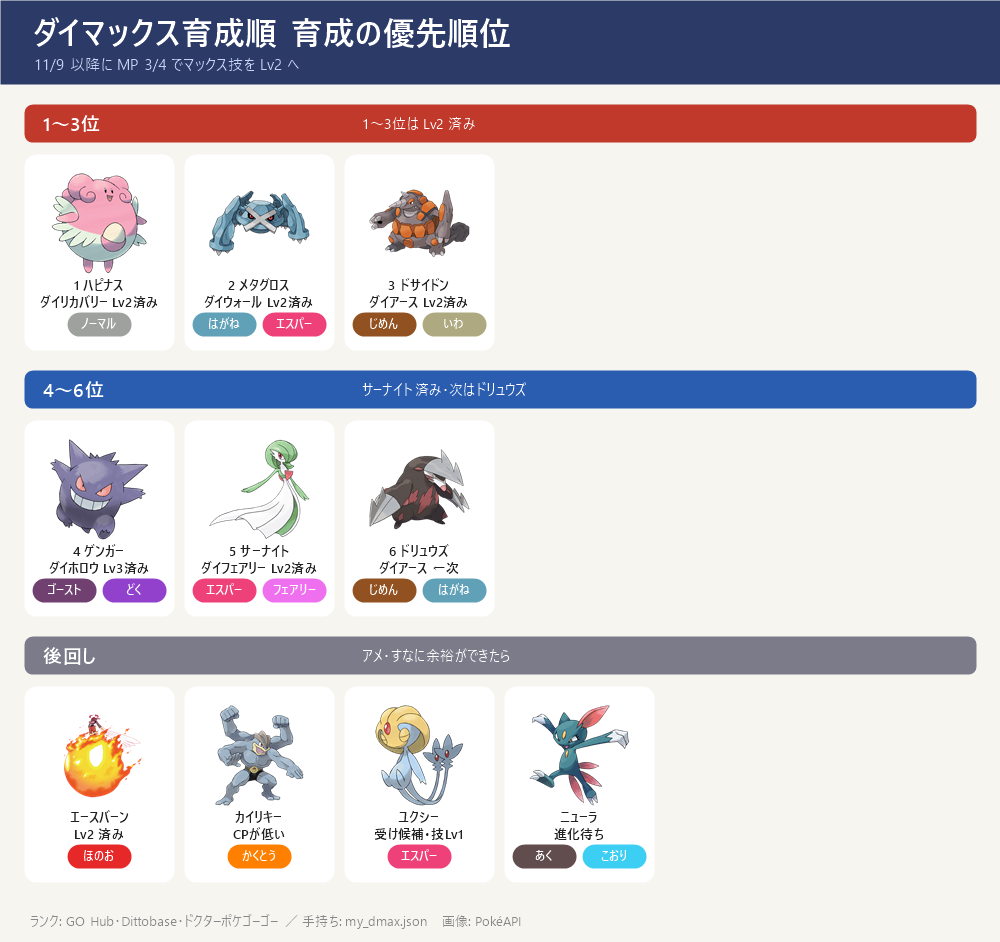
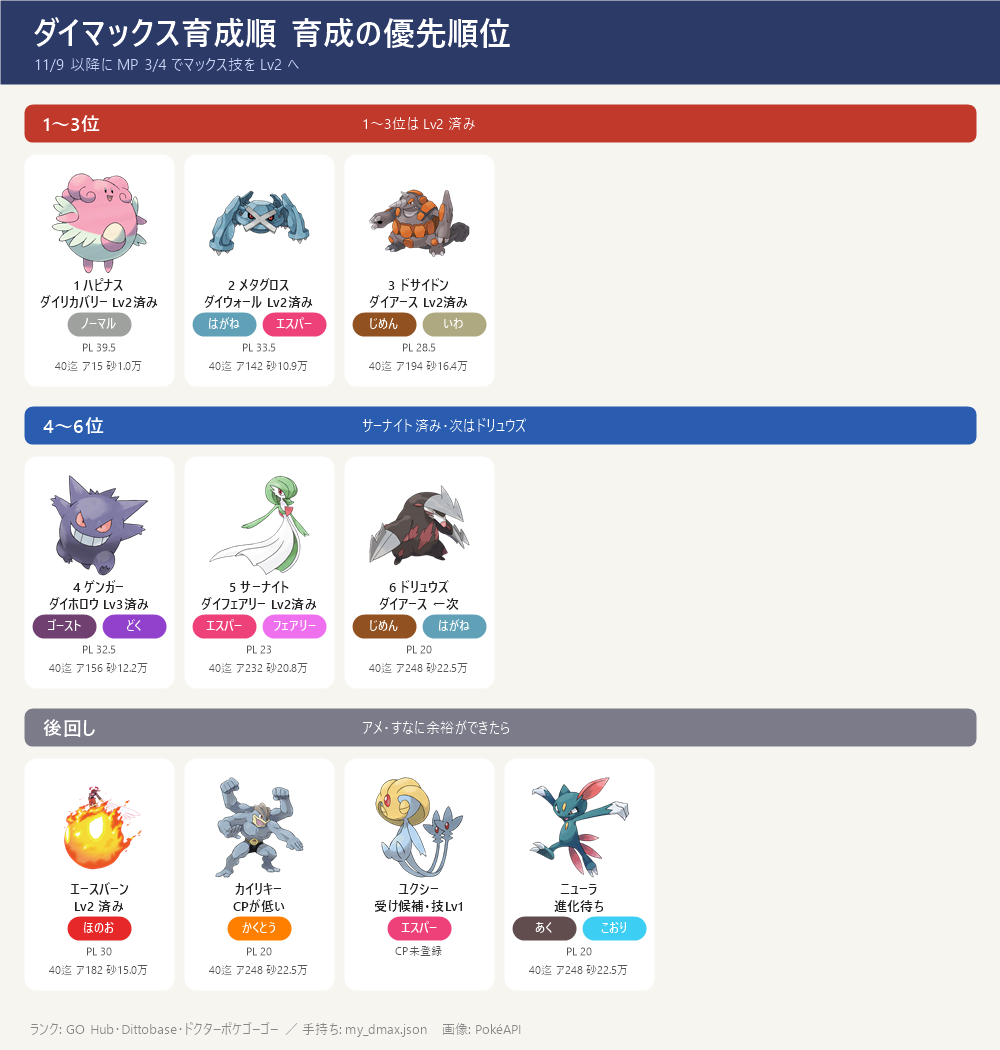
育成順ページ: 各ダイマックスに今のPLとPL40までの必要アメ・ほしのすな（概算）を追加

diff --git a/topics/dmax-training/index.html b/topics/dmax-training/index.html
@@ -12,4 +12,4 @@ details{margin:10px 0}summary{cursor:pointer;color:var(--muted)}
 .ti{width:26px;height:26px;margin:0 7px 0 0;font-size:20px;line-height:26px}
 .hi{width:30px;height:30px;margin:0 9px 0 0;font-size:24px;line-height:30px}
 ul.tl{padding-left:0}ul.tl li{list-style:none;margin:7px 0}ul.tl a{display:flex;align-items:center}
-</style></head><body><header><h1><span class='hi'>📋</span>ダイマックス 育成の優先順位（10/17〜）</h1><nav><a href='../../'>← 一覧</a></nav></header><main><ul><li><span style='font-weight:bold;color:#C0392B'>結論：すなより「マックス技のレベル」</span>。マックス技 Lv1→Lv3 で威力 <b>+40%</b>（250→350）、PL30→40 は攻撃 <b>+8%</b> だけ → すな（50万未満）はほぼ使わず、<b>MP とアメ</b>で育てる</li><li><span style='font-weight:bold;color:#C0392B'>残る強化は 11/9(日) 以降にまとめる</span>（10/20 決定）：GOパス デラックス「ワイルドウィーク」のランク2で、マックス技の MP が <b>3/4</b>（Lv2 は 600 → 450）。残るは <b>⑥ドリュウズ だけ</b>（約600 → 450）。<b>ゲンガーは 10/24 用に Lv3 済み（10/23）、ハピナスは回復役として Lv2 済み（10/21）、メタグロスはダイウォール Lv2 済み（10/24）、ドサイドンはダイアース Lv2 済み（10/24）、サーナイトはダイフェアリー Lv2 済み（10/24）</b></li><li><b>11/9 にいちばん先</b>：⑥ドリュウズ ダイアース Lv2（②メタグロス・③ドサイドン・⑤サーナイトは 10/24 までに済み）。11/9〜13 の ★5 の前に</li><li><b>止まりやすいのは MP ではなくアメ</b>：1〜6位を全部 Lv2 にしても MP は約4,000（ふつうの日5日分）。アメが足りない技は飛ばして次へ。Lv3 はアメXL 40〜55個 → <b>当面は全部 Lv2 まで</b></li><li><span style='color:#888888'>11/16 以降のマックスバトルは未発表（10/17 時点）。発表されたらこのページを直す</span></li><li><span style='font-weight:bold;color:#C0392B'>【新規】下に「ザシアン・ザマゼンタの育成計画」を追加</span>：11/9〜のワイルドエリア（Into the Wild）で、ザマゼンタを<b>王の姿</b>に・ザシアンの攻撃を<b>ぎんのおうかん</b>で特訓。<b>締切 11/17・11/22</b>（くわしくは下の節）</li></ul><h2 style='border-color:#C0392B'>育成の優先順位</h2><a href='pokego_extra0.png'><img src='pokego_extra0.png' alt='育成の優先順位' loading=lazy></a><ul><li><b>1位 ハピナス（CP2677）</b>：<span style='font-weight:bold;color:#C0392B'>ダイリカバリー Lv2 済み（10/21）</span>。<b>6ボスすべて</b>で回復役。回復量 31 → <b>47</b>（4体全員に）。次はダイウォール Lv2</li><li><b>2位 メタグロス（CP3369）</b>：<span style='font-weight:bold;color:#C0392B'>ダイウォール Lv2 済み（10/24）</span>。<b>6ボスすべて</b>で受け役（盾 <b>40</b>）。どの攻略サイトでも受け役の上位。Lv3（盾 60）はアメXL が要るので当面このまま</li><li><b>3位 ドサイドン（CP3005）</b>：<span style='font-weight:bold;color:#C0392B'>ダイアース Lv2 済み（10/24）</span>（<b>どろかけ</b> 替え済み 10/18）。ディアルガ・レジスチル・★6 キョダイジュラルドンで<b>弱点</b>を突く攻撃役。ディアルガへの1発 227→約272（Lv3 は 318・アメXL が要るので当面このまま）</li><li><b>4位 ゲンガー（CP2500）</b>：<span style='font-weight:bold;color:#C0392B'>ダイホロウ（ダイアタック）Lv3 済み（10/23）</span>。10/24 ユクシー・エムリット・アグノム、11/13 ラティアス・ラティオスで弱点</li><li><b>5位 サーナイト（CP2023・15-13-15）</b>：<span style='font-weight:bold;color:#C0392B'>ダイフェアリー Lv2 済み（10/24）</span>。<b>あまえる</b> 替え済み（10/18）。パルキア・レジドラゴ・ラティアス／ラティオス・10/26 ヤミラミ（弱点はフェアリーだけ）の攻撃役</li><li><b>6位 ドリュウズ（CP1835・15-15-10・PL20）</b>：<span style='font-weight:bold;color:#C0392B'>次の強化はここから</span>。どろかけ／ドリルライナー、ダイアース Lv1 済み → <b>Lv2（600MP）</b>。アメ 187 → Lv2（約110）と PL30（約40）で約150、ぎりぎり足りる。<b>順番：Lv2 → PL30 → 和田堀の巣でアメXLを集めて Lv3</b>（Lv3 はアメXL 約45、今20）。集まらなければ最後に ふしぎなアメXL。ディアルガの技（ドラゴン・はがね・でんき）を<b>全部半減以下</b>で受けられる2体目のじめん役 → <span style='font-weight:bold;color:#C0392B'>11/9〜13 に</span></li><li><span style='color:#888888'><b>後回し</b>：エースバーン（キョダイ Lv2 済み。Lv3 はアメXL 45個）／カイリキー（CP1698 で弱い。じめん・かくとう役はドサイドンが先）／インテレオン・フシギバナ（ダイマックス版はどのサイトでも下位）／シャワーズ（パルキアの受けの控え）／ハピナス2体目（余裕ができたら2体目の回復役に）／<b>ユクシー（10/24 捕獲・15-12-13）＝受け（タンク）向き</b>（防御がとても高い(270)エスパー単。ただし今はダイアタック Lv1 のみで<b>ダイウォール未習得</b> → 覚えれば受けの2体目候補。今のドラゴン・はがね系ボスには等倍なので受け役の比較にはまだ入れていない。攻撃は火力不足・回復はHPが少なく不向き）／ニューラ（CP1139・こおりのつぶて。10/19 捕獲。マニューラへの進化はアメ100 → 今76、あと24。いしはある。進化すると CP約1,680、ダイアイスがレジドラゴ・ラティアス・ラティオスに2倍。アメは技より<b>進化を先</b>に）</span></li></ul><h2 style='border-color:#5B4B8A'>これからのマックスバトルと使うポケモン</h2><a href='pokego_extra1.png'><img src='pokego_extra1.png' alt='これからのマックスバトルと使うポケモン' loading=lazy></a><ul><li><b>10/19(月) マックスマンデー：ダイマックス ニューラ</b>（あく・こおり）→ かくとうが<b>4倍</b>：カイリキー。ほのお（エースバーン）・むし（メタグロスのれんぞくぎり）も弱点</li><li><b>10/24(土) 14:00〜17:00 マックスバトルデイ：ユクシー・エムリット・アグノム</b>（エスパー・★5）→ ゴースト（<b>ゲンガー</b>）・むし（<b>メタグロス</b>）。★5 なので4人で</li><li><b>10/26(月) マックスマンデー：ヤミラミ</b>（あく・ゴースト）→ 弱点は<b>フェアリーだけ</b>：サーナイト（あまえる）</li><li><b>11/9〜13 ワイルドウィーク</b>（★5 レジスチル・レジドラゴ・ラティアス・ラティオス）→ <b>11/14 ディアルガ・11/15 パルキア</b>。くわしくはボス別のページ</li><li><b>11/14・15 ★6 キョダイジュラルドン</b>（はがね・ドラゴン）→ じめん・かくとうが弱点：<b>ドサイドン（どろかけ）</b></li><li><span style='color:#888888'>11/16 以降は未発表。去年の年末は 12/14 にキョダイカビゴンのマックスバトルデイ</span></li></ul><h2 style='border-color:#B8860B'>ザシアン・ザマゼンタの育成計画</h2><ul><li><span style='font-weight:bold;color:#C0392B'>手持ち</span>：<b>ザシアン</b>（攻撃10／防御15／HP14）・<b>ザマゼンタ</b>（攻撃15／防御14／HP14）。<span style='color:#888888'>※ダイマックスではなく、11/9〜のワイルドエリア（Into the Wild）での通常レイド・特訓の計画</span></li><li><b>① ザマゼンタ → 王の姿（たてのおう）に</b>：<b>11/9 から</b>の ★5 レイド（王の姿）をこなして たてのおう にする予定。<span style='font-weight:bold;color:#C0392B'>王の姿にする条件は未確認 → イベント前に確認する</span></li><li><b>② ザシアン → 攻撃を特訓（10→15）</b>：<b>ぎんのおうかん</b>を使って攻撃を 15 にする（個体値が <b>15／15／14</b> になる）。<span style='color:#888888'>ぎんのおうかんで上げられるのは1つの数値だけ</span></li><li><b>③ ぎんのおうかんの入手</b>：「<b>GOパス デラックス：Into the Wild</b>」（14.99ドル相当）を<b>最後までクリア</b>するともらえる</li><li><span style='font-weight:bold;color:#C0392B'>④ いま準備すること</span>：<b>ザシアンを今から相棒にして「仲良し」以上にしておく</b>（特訓に使える相棒は仲良し以上だけ）。攻撃の特訓は<b>一緒にバトルすると進む</b>。<span style='font-weight:bold;color:#C0392B'>特訓したポケモンはポケモンHOMEに送れなくなる</span>ので注意</li><li><b>日程</b>（公式と Leek Duck の2か所で一致）：Into the Wild <b>11/9(月)10:00〜11/13(金)20:00</b>／レイドアワー <b>11/9(月)18:00〜19:00 ザシアン</b>・<b>11/10(火)18:00〜19:00 ザマゼンタ</b>／GOパスのポイント獲得は <b>11/15(日)18:00</b> まで</li><li><span style='font-weight:bold;color:#C0392B'>■ 締切①：11/17(火)23:59 まで</span> — GOパス デラックスの<b>報酬（ぎんのおうかん）の受け取り</b>期限</li><li><span style='font-weight:bold;color:#C0392B'>■ 締切②：11/22(日)23:59 まで</span> — <b>ぎんのおうかんの使用</b>期限（この日までにザシアンの攻撃特訓を済ませる）</li></ul><h2 style='border-color:#2A5DB0'>MP の計画</h2><ul><li>1日に集められるのは <b>800</b>（5:00 に戻る）、持てる上限は <b>1,500</b>。パック・リサーチ・コードの MP は1日の上限に数えない</li><li><b>育成に要る MP</b>：ゲンガー（ダイホロウ Lv3・10/23）・ハピナス（ダイリカバリー Lv2・10/21）・メタグロス（ダイウォール Lv2・10/24）・ドサイドン（ダイアース Lv2・10/24）・サーナイト（ダイフェアリー Lv2・10/24）は済み。残るは ⑥ドリュウズ 約600 → 11/9 以降の 3/4 なら <b>約450</b></li><li><b>11/8 までは MP をためる</b>：持てるのは 1,500 まで → あふれる分は<b>パックを開けずにとっておく</b>（ウェブストア 6個 1,120円 ＝ 4,800MP など）。11/9 に 1,500 から強化 → 減ったらパックを開けて続きを強化</li><li><b>パック（800MP）は 11/14・15 用にとっておく</b>のがいちばん効く：1個 ＝ もう1戦。持てるのは12個まで。<span style='font-weight:bold;color:#C0392B'>開けられるのは 1,500 未満のときだけ</span>（1戦して減ったら開ける。開けると 1,500 を超えてもよい）</li><li>例：週3個 × 4週（10/18〜11/13）＝ 最大12個。半分の6個をとっておけば、11/14・15 が <b>3戦ずつ増える</b></li><li><b>11/12・13 は使わずに 1,500 までためる</b>（いままでの計画どおり）</li><li><span style='color:#888888'>GOパス デラックス：ワイルドウィーク（11/9 10:00〜11/15 18:00、14.99ドル）。<b>まだ買っていない</b>。ランク2 までに要るポイントと、特典がいつ効くかは 11/9 に画面で確認。11/9〜13 はポイントに1日の上限あり</span></li></ul><h2 style='border-color:#3C8D5A'>必要な量とすなの使い方</h2><ul><li><b>覚える（Lv1）</b>：400MP ＋ アメ50〜70（伝説80）／<b>Lv1→2</b>：600MP ＋ アメ100〜120（伝説130）／<b>Lv2→3</b>：800MP ＋ <b>アメXL</b> 40〜50（伝説55）</li><li>アメの量はポケモンごとに違う（ゴース・ワンリキーは 60/110/45、ダンバルは 70/120/50）。<b>画面で確認してから</b></li><li><b>効果</b>：ダイ攻撃 250/300/350、キョダイ技 350/400/450、ダイウォール 盾 20/40/60、ダイリカバリー 最大HPの 8/12/16%。Lv4 は買えない（ムゲンダイナの特別な効果中だけ）</li><li><b>すな</b>：PL30→40 で15万、PL40→50 で25万（アメXL 296個）→ 50万未満なら上げられるのは1体だけ</li><li><b>すなを使うなら まずドリュウズを PL30 へ</b>（約7.5万すな・アメ約40 → CP1835 → <b>約2,750</b>、攻撃 約+22% でドサイドンと同じくらい）。いちばん安く強くなる。PL40（CP約3,200）はさらに15万すな → 後回し。<b>次がドサイドン</b>（今は PL31 前後と推定 → PL40 で約13万すな、攻撃 約+11%）。<span style='font-weight:bold;color:#C0392B'>カイリキー（CP1698）にすなを入れるのはやめる</span>（じめん・かくとう役はドサイドンで足りる）。ハピナス（CP2677）はもう PL40 近いので不要</li><li><b>10/22(木) 18:00〜19:00 ネマシュのスポットライトアワー（すな2倍）</b>でためる</li></ul><p class=src>出典: マックス技の量: ポケらく post94863・Sportskeeda ／ MP: Dittobase ／ 予定: Leek Duck・Dittobase・ポケモンGO公式 into-the-wild-2026 ／ ランク: GO Hub（攻撃・受け・回復）・Dittobase・ドクターポケゴーゴー ／ すな: GO Hub ／ ボス別の計算: calc.json・ww_calc.json ／ ザシアン・ザマゼンタ: 指示書（公式・Leek Duck で日付一致） ／ 手持ち: my_dmax.json<br>画像: PokéAPI ／ 更新 2026-10-24</p></main></body></html>
+</style></head><body><header><h1><span class='hi'>📋</span>ダイマックス 育成の優先順位（10/17〜）</h1><nav><a href='../../'>← 一覧</a></nav></header><main><ul><li><span style='font-weight:bold;color:#C0392B'>結論：すなより「マックス技のレベル」</span>。マックス技 Lv1→Lv3 で威力 <b>+40%</b>（250→350）、PL30→40 は攻撃 <b>+8%</b> だけ → すな（50万未満）はほぼ使わず、<b>MP とアメ</b>で育てる</li><li><span style='font-weight:bold;color:#C0392B'>残る強化は 11/9(日) 以降にまとめる</span>（10/20 決定）：GOパス デラックス「ワイルドウィーク」のランク2で、マックス技の MP が <b>3/4</b>（Lv2 は 600 → 450）。残るは <b>⑥ドリュウズ だけ</b>（約600 → 450）。<b>ゲンガーは 10/24 用に Lv3 済み（10/23）、ハピナスは回復役として Lv2 済み（10/21）、メタグロスはダイウォール Lv2 済み（10/24）、ドサイドンはダイアース Lv2 済み（10/24）、サーナイトはダイフェアリー Lv2 済み（10/24）</b></li><li><b>11/9 にいちばん先</b>：⑥ドリュウズ ダイアース Lv2（②メタグロス・③ドサイドン・⑤サーナイトは 10/24 までに済み）。11/9〜13 の ★5 の前に</li><li><b>止まりやすいのは MP ではなくアメ</b>：1〜6位を全部 Lv2 にしても MP は約4,000（ふつうの日5日分）。アメが足りない技は飛ばして次へ。Lv3 はアメXL 40〜55個 → <b>当面は全部 Lv2 まで</b></li><li><span style='color:#888888'>11/16 以降のマックスバトルは未発表（10/17 時点）。発表されたらこのページを直す</span></li><li><span style='font-weight:bold;color:#C0392B'>【新規】下に「ザシアン・ザマゼンタの育成計画」を追加</span>：11/9〜のワイルドエリア（Into the Wild）で、ザマゼンタを<b>王の姿</b>に・ザシアンの攻撃を<b>ぎんのおうかん</b>で特訓。<b>締切 11/17・11/22</b>（くわしくは下の節）</li></ul><h2 style='border-color:#C0392B'>育成の優先順位</h2><a href='pokego_extra0.png'><img src='pokego_extra0.png' alt='育成の優先順位' loading=lazy></a><ul><li><b>1位 ハピナス（CP2677）</b>：<span style='font-weight:bold;color:#C0392B'>ダイリカバリー Lv2 済み（10/21）</span>。<b>6ボスすべて</b>で回復役。回復量 31 → <b>47</b>（4体全員に）。次はダイウォール Lv2</li><li><b>2位 メタグロス（CP3369）</b>：<span style='font-weight:bold;color:#C0392B'>ダイウォール Lv2 済み（10/24）</span>。<b>6ボスすべて</b>で受け役（盾 <b>40</b>）。どの攻略サイトでも受け役の上位。Lv3（盾 60）はアメXL が要るので当面このまま</li><li><b>3位 ドサイドン（CP3005）</b>：<span style='font-weight:bold;color:#C0392B'>ダイアース Lv2 済み（10/24）</span>（<b>どろかけ</b> 替え済み 10/18）。ディアルガ・レジスチル・★6 キョダイジュラルドンで<b>弱点</b>を突く攻撃役。ディアルガへの1発 227→約272（Lv3 は 318・アメXL が要るので当面このまま）</li><li><b>4位 ゲンガー（CP2500）</b>：<span style='font-weight:bold;color:#C0392B'>ダイホロウ（ダイアタック）Lv3 済み（10/23）</span>。10/24 ユクシー・エムリット・アグノム、11/13 ラティアス・ラティオスで弱点</li><li><b>5位 サーナイト（CP2023・15-13-15）</b>：<span style='font-weight:bold;color:#C0392B'>ダイフェアリー Lv2 済み（10/24）</span>。<b>あまえる</b> 替え済み（10/18）。パルキア・レジドラゴ・ラティアス／ラティオス・10/26 ヤミラミ（弱点はフェアリーだけ）の攻撃役</li><li><b>6位 ドリュウズ（CP1835・15-15-10・PL20）</b>：<span style='font-weight:bold;color:#C0392B'>次の強化はここから</span>。どろかけ／ドリルライナー、ダイアース Lv1 済み → <b>Lv2（600MP）</b>。アメ 187 → Lv2（約110）と PL30（約40）で約150、ぎりぎり足りる。<b>順番：Lv2 → PL30 → 和田堀の巣でアメXLを集めて Lv3</b>（Lv3 はアメXL 約45、今20）。集まらなければ最後に ふしぎなアメXL。ディアルガの技（ドラゴン・はがね・でんき）を<b>全部半減以下</b>で受けられる2体目のじめん役 → <span style='font-weight:bold;color:#C0392B'>11/9〜13 に</span></li><li><span style='color:#888888'><b>後回し</b>：エースバーン（キョダイ Lv2 済み。Lv3 はアメXL 45個）／カイリキー（CP1698 で弱い。じめん・かくとう役はドサイドンが先）／インテレオン・フシギバナ（ダイマックス版はどのサイトでも下位）／シャワーズ（パルキアの受けの控え）／ハピナス2体目（余裕ができたら2体目の回復役に）／<b>ユクシー（10/24 捕獲・15-12-13）＝受け（タンク）向き</b>（防御がとても高い(270)エスパー単。ただし今はダイアタック Lv1 のみで<b>ダイウォール未習得</b> → 覚えれば受けの2体目候補。今のドラゴン・はがね系ボスには等倍なので受け役の比較にはまだ入れていない。攻撃は火力不足・回復はHPが少なく不向き）／ニューラ（CP1139・こおりのつぶて。10/19 捕獲。マニューラへの進化はアメ100 → 今76、あと24。いしはある。進化すると CP約1,680、ダイアイスがレジドラゴ・ラティアス・ラティオスに2倍。アメは技より<b>進化を先</b>に）</span></li></ul><h2 style='border-color:#5B4B8A'>これからのマックスバトルと使うポケモン</h2><a href='pokego_extra1.png'><img src='pokego_extra1.png' alt='これからのマックスバトルと使うポケモン' loading=lazy></a><ul><li><b>10/19(月) マックスマンデー：ダイマックス ニューラ</b>（あく・こおり）→ かくとうが<b>4倍</b>：カイリキー。ほのお（エースバーン）・むし（メタグロスのれんぞくぎり）も弱点</li><li><b>10/24(土) 14:00〜17:00 マックスバトルデイ：ユクシー・エムリット・アグノム</b>（エスパー・★5）→ ゴースト（<b>ゲンガー</b>）・むし（<b>メタグロス</b>）。★5 なので4人で</li><li><b>10/26(月) マックスマンデー：ヤミラミ</b>（あく・ゴースト）→ 弱点は<b>フェアリーだけ</b>：サーナイト（あまえる）</li><li><b>11/9〜13 ワイルドウィーク</b>（★5 レジスチル・レジドラゴ・ラティアス・ラティオス）→ <b>11/14 ディアルガ・11/15 パルキア</b>。くわしくはボス別のページ</li><li><b>11/14・15 ★6 キョダイジュラルドン</b>（はがね・ドラゴン）→ じめん・かくとうが弱点：<b>ドサイドン（どろかけ）</b></li><li><span style='color:#888888'>11/16 以降は未発表。去年の年末は 12/14 にキョダイカビゴンのマックスバトルデイ</span></li></ul><h2 style='border-color:#B8860B'>ザシアン・ザマゼンタの育成計画</h2><ul><li><span style='font-weight:bold;color:#C0392B'>手持ち</span>：<b>ザシアン</b>（攻撃10／防御15／HP14）・<b>ザマゼンタ</b>（攻撃15／防御14／HP14）。<span style='color:#888888'>※ダイマックスではなく、11/9〜のワイルドエリア（Into the Wild）での通常レイド・特訓の計画</span></li><li><b>① ザマゼンタ → 王の姿（たてのおう）に</b>：<b>11/9 から</b>の ★5 レイド（王の姿）をこなして たてのおう にする予定。<span style='font-weight:bold;color:#C0392B'>王の姿にする条件は未確認 → イベント前に確認する</span></li><li><b>② ザシアン → 攻撃を特訓（10→15）</b>：<b>ぎんのおうかん</b>を使って攻撃を 15 にする（個体値が <b>15／15／14</b> になる）。<span style='color:#888888'>ぎんのおうかんで上げられるのは1つの数値だけ</span></li><li><b>③ ぎんのおうかんの入手</b>：「<b>GOパス デラックス：Into the Wild</b>」（14.99ドル相当）を<b>最後までクリア</b>するともらえる</li><li><span style='font-weight:bold;color:#C0392B'>④ いま準備すること</span>：<b>ザシアンを今から相棒にして「仲良し」以上にしておく</b>（特訓に使える相棒は仲良し以上だけ）。攻撃の特訓は<b>一緒にバトルすると進む</b>。<span style='font-weight:bold;color:#C0392B'>特訓したポケモンはポケモンHOMEに送れなくなる</span>ので注意</li><li><b>日程</b>（公式と Leek Duck の2か所で一致）：Into the Wild <b>11/9(月)10:00〜11/13(金)20:00</b>／レイドアワー <b>11/9(月)18:00〜19:00 ザシアン</b>・<b>11/10(火)18:00〜19:00 ザマゼンタ</b>／GOパスのポイント獲得は <b>11/15(日)18:00</b> まで</li><li><span style='font-weight:bold;color:#C0392B'>■ 締切①：11/17(火)23:59 まで</span> — GOパス デラックスの<b>報酬（ぎんのおうかん）の受け取り</b>期限</li><li><span style='font-weight:bold;color:#C0392B'>■ 締切②：11/22(日)23:59 まで</span> — <b>ぎんのおうかんの使用</b>期限（この日までにザシアンの攻撃特訓を済ませる）</li></ul><h2 style='border-color:#2A5DB0'>MP の計画</h2><ul><li>1日に集められるのは <b>800</b>（5:00 に戻る）、持てる上限は <b>1,500</b>。パック・リサーチ・コードの MP は1日の上限に数えない</li><li><b>育成に要る MP</b>：ゲンガー（ダイホロウ Lv3・10/23）・ハピナス（ダイリカバリー Lv2・10/21）・メタグロス（ダイウォール Lv2・10/24）・ドサイドン（ダイアース Lv2・10/24）・サーナイト（ダイフェアリー Lv2・10/24）は済み。残るは ⑥ドリュウズ 約600 → 11/9 以降の 3/4 なら <b>約450</b></li><li><b>11/8 までは MP をためる</b>：持てるのは 1,500 まで → あふれる分は<b>パックを開けずにとっておく</b>（ウェブストア 6個 1,120円 ＝ 4,800MP など）。11/9 に 1,500 から強化 → 減ったらパックを開けて続きを強化</li><li><b>パック（800MP）は 11/14・15 用にとっておく</b>のがいちばん効く：1個 ＝ もう1戦。持てるのは12個まで。<span style='font-weight:bold;color:#C0392B'>開けられるのは 1,500 未満のときだけ</span>（1戦して減ったら開ける。開けると 1,500 を超えてもよい）</li><li>例：週3個 × 4週（10/18〜11/13）＝ 最大12個。半分の6個をとっておけば、11/14・15 が <b>3戦ずつ増える</b></li><li><b>11/12・13 は使わずに 1,500 までためる</b>（いままでの計画どおり）</li><li><span style='color:#888888'>GOパス デラックス：ワイルドウィーク（11/9 10:00〜11/15 18:00、14.99ドル）。<b>まだ買っていない</b>。ランク2 までに要るポイントと、特典がいつ効くかは 11/9 に画面で確認。11/9〜13 はポイントに1日の上限あり</span></li></ul><h2 style='border-color:#3C8D5A'>必要な量とすなの使い方</h2><ul><li><b>覚える（Lv1）</b>：400MP ＋ アメ50〜70（伝説80）／<b>Lv1→2</b>：600MP ＋ アメ100〜120（伝説130）／<b>Lv2→3</b>：800MP ＋ <b>アメXL</b> 40〜50（伝説55）</li><li>アメの量はポケモンごとに違う（ゴース・ワンリキーは 60/110/45、ダンバルは 70/120/50）。<b>画面で確認してから</b></li><li><b>効果</b>：ダイ攻撃 250/300/350、キョダイ技 350/400/450、ダイウォール 盾 20/40/60、ダイリカバリー 最大HPの 8/12/16%。Lv4 は買えない（ムゲンダイナの特別な効果中だけ）</li><li><b>すな</b>：PL30→40 で15万、PL40→50 で25万（アメXL 296個）→ 50万未満なら上げられるのは1体だけ</li><li><b>すなを使うなら まずドリュウズを PL30 へ</b>（約7.5万すな・アメ約40 → CP1835 → <b>約2,750</b>、攻撃 約+22% でドサイドンと同じくらい）。いちばん安く強くなる。PL40（CP約3,200）はさらに15万すな → 後回し。<b>次がドサイドン</b>（今は PL31 前後と推定 → PL40 で約13万すな、攻撃 約+11%）。<span style='font-weight:bold;color:#C0392B'>カイリキー（CP1698）にすなを入れるのはやめる</span>（じめん・かくとう役はドサイドンで足りる）。ハピナス（CP2677）はもう PL40 近いので不要</li><li><b>10/22(木) 18:00〜19:00 ネマシュのスポットライトアワー（すな2倍）</b>でためる</li></ul><h2 style='border-color:#2E7D6B'>今のPL と PL40までのアメ・ほしのすな（概算）</h2><p>手持ちのダイマックスの<b>今のPL</b>（登録済みの個体値とCPから計算・0.5きざみ）と、<b>PL40まで</b>に必要な<b>アメ・ほしのすな</b>の概算。<span style='color:#888888'>キラ（キラポケモン）はほしのすなを半分で計算</span>。アメの所持数があるものは「あと何個」も表示。PL40を超えているものは「PL40到達済み」。CP未登録のものはPLを出せません</p><details><summary style='cursor:pointer;color:#2A5DB0;font-weight:bold'>手持ち15体の早見表（タップで開閉）</summary><ul><li><b>メタグロス</b>：今のPL <b>33.5</b>／PL40まで アメ <b>142</b>・ほしのすな <b>約10.9万</b></li><li><b>ユクシー</b>：CP未登録のため今のPLは計算できません</li><li><b>ハピナス</b>：今のPL <b>39.5</b>／PL40まで アメ <b>15</b>・ほしのすな <b>約1.0万</b></li><li><b>ドサイドン</b>：今のPL <b>28.5</b>／PL40まで アメ <b>194</b>・ほしのすな <b>約16.4万</b></li><li><b>ドリュウズ</b>：今のPL <b>20</b>／PL40まで アメ <b>248</b>・ほしのすな <b>約22.5万</b>（アメ所持187 → <span style='font-weight:bold;color:#C0392B'>あと61</span>）</li><li><b>インテレオン</b>：今のPL <b>27.5</b>／PL40まで アメ <b>202</b>・ほしのすな <b>約17.4万</b></li><li><b>ゲンガー</b>：今のPL <b>32.5</b>／PL40まで アメ <b>156</b>・ほしのすな <b>約12.2万</b></li><li><b>サーナイト</b>：今のPL <b>23</b>／PL40まで アメ <b>232</b>・ほしのすな <b>約20.8万</b></li><li><b>フシギバナ</b>：今のPL <b>26.5</b>／PL40まで アメ <b>210</b>・ほしのすな <b>約18.2万</b></li><li><b>シャワーズ</b>：今のPL <b>19.5</b>／PL40まで アメ <b>250</b>・ほしのすな <b>約22.8万</b></li><li><b>カイリキー</b>：今のPL <b>20</b>／PL40まで アメ <b>248</b>・ほしのすな <b>約22.5万</b></li><li><b>エースバーン</b>：今のPL <b>30</b>／PL40まで アメ <b>182</b>・ほしのすな <b>約15.0万</b></li><li><b>ハピナス(2体目)</b>：今のPL <b>20</b>／PL40まで アメ <b>248</b>・ほしのすな <b>約22.5万</b></li><li><b>マーイーカ</b>：今のPL <b>15</b>／PL40まで アメ <b>268</b>・ほしのすな <b>約24.6万</b>（アメ所持234 → <span style='font-weight:bold;color:#C0392B'>あと34</span>）</li><li><b>ニューラ</b>：今のPL <b>20</b>／PL40まで アメ <b>248</b>・ほしのすな <b>約22.5万</b>（アメ所持76 → <span style='font-weight:bold;color:#C0392B'>あと172</span>）</li></ul></details><p class=src>出典: マックス技の量: ポケらく post94863・Sportskeeda ／ MP: Dittobase ／ 予定: Leek Duck・Dittobase・ポケモンGO公式 into-the-wild-2026 ／ ランク: GO Hub（攻撃・受け・回復）・Dittobase・ドクターポケゴーゴー ／ すな: GO Hub ／ PL・強化コスト: CPM表(Lv40=0.7903)＋強化コスト表 Pokémon GO Hub・Bulbapedia ／ ボス別の計算: calc.json・ww_calc.json ／ ザシアン・ザマゼンタ: 指示書（公式・Leek Duck で日付一致） ／ 手持ち: my_dmax.json<br>画像: PokéAPI ／ 更新 2026-10-29</p></main></body></html>
